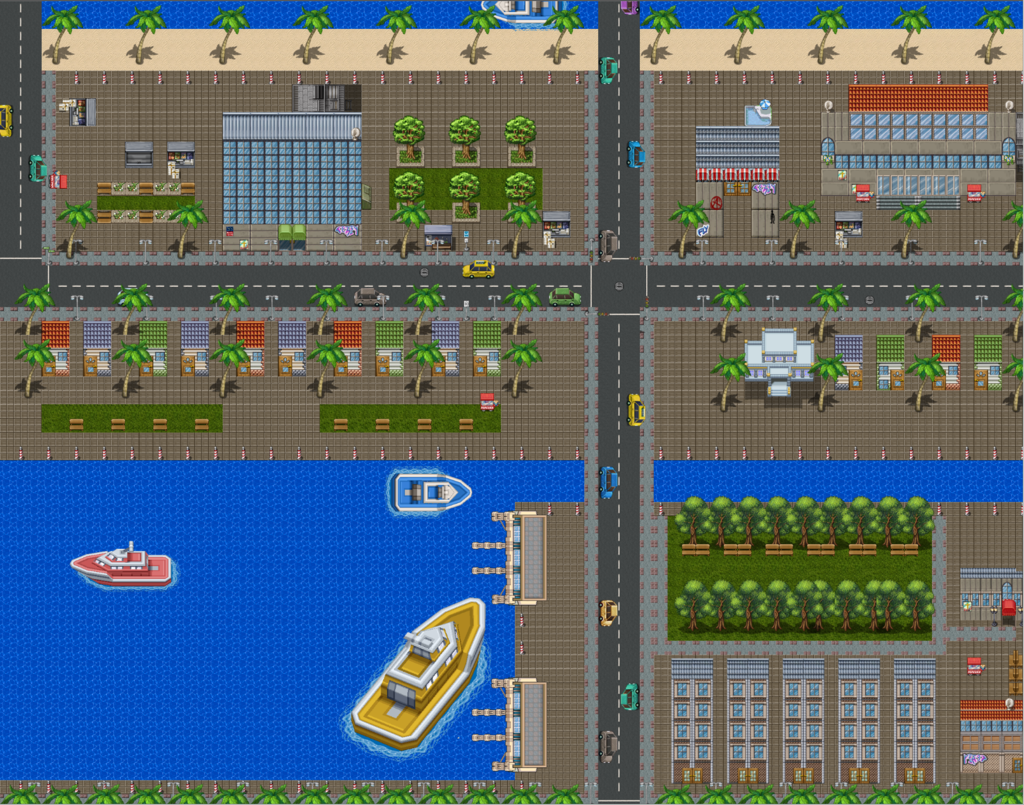
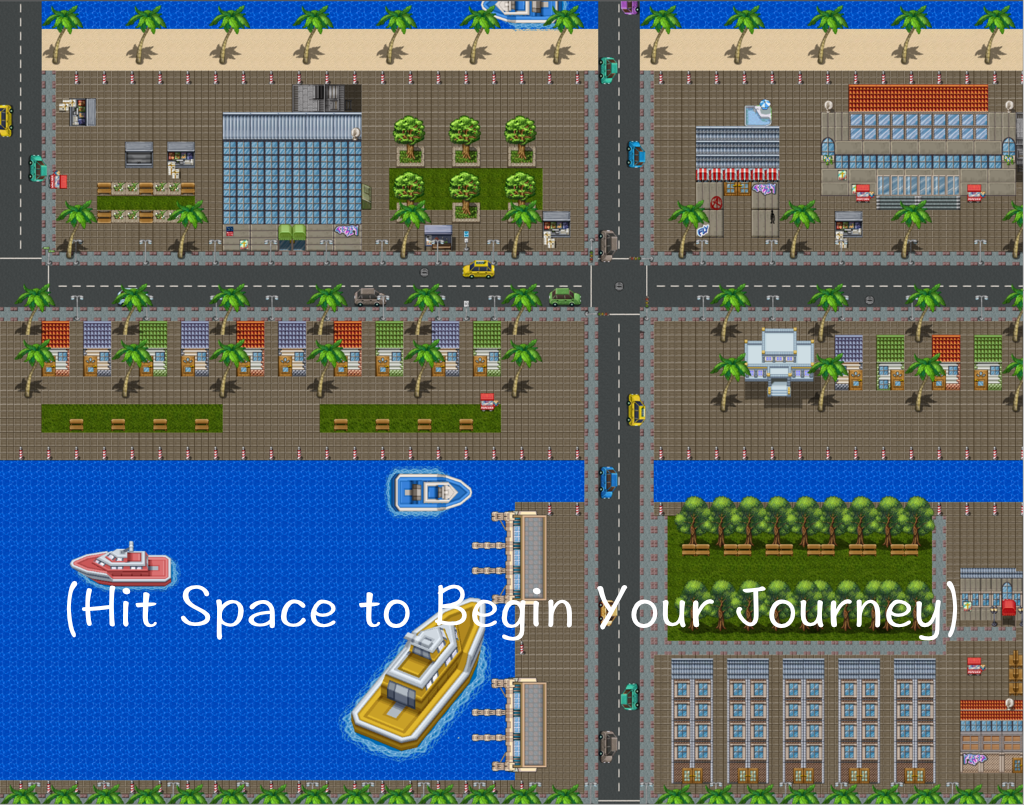
Enemies Collision animation working

Changed region(s): [[0.0625, 0.7143, 0.6875, 0.8075], [0.7188, 0.7143, 0.9375, 0.8075]]

diff --git a/app/assets/javascripts/Menu.js b/app/assets/javascripts/Menu.js
@@ -12,7 +12,7 @@ Eddroid.Menu.prototype = {
   create: function() {
     backgroundPic = this.add.image(0, 0, 'premap');
     Eddroidlogo = this.add.image(90, 50, 'logo');
-    startPrompt = this.add.text(120, 400, "Space Bar To Begin The Experience", { font: "35px Arial", fill: "#fff", align: "center" });
+    // startPrompt = this.add.text(120, 400, "Space Bar To Begin The Experience", { font: "35px Arial", fill: "#fff", align: "center" });
     this.enabled = true;
     spaceKey = this.input.keyboard.addKey(Phaser.Keyboard.SPACEBAR);
 
